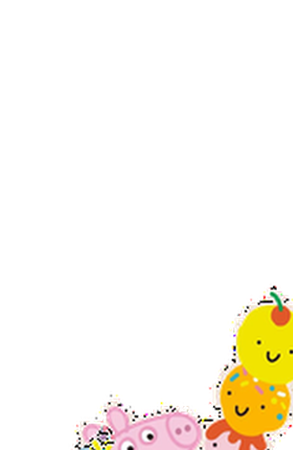
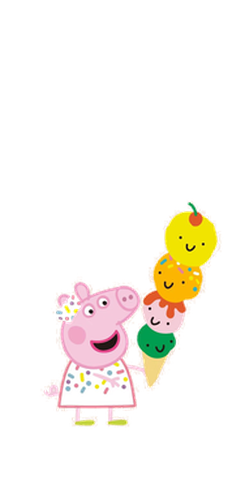
peppa_9 back to floating, restored from git with light crop, 480px height at top 20%

Changed region(s): [[0.1714, 0.4044, 1.0, 1.0]]

diff --git a/index.html b/index.html
@@ -454,6 +454,10 @@ footer a:hover { text-decoration: underline; }
 .peppa-wrap.peppa-7 {
   top: 30%;
 }
+.peppa-wrap.peppa-9 {
+  top: 20%;
+  height: 480px;
+}
 .peppa-wrap.peppa-6 {
   top: 5%;
   height: 350px;
@@ -568,13 +572,14 @@ footer a:hover { text-decoration: underline; }
 
 <!-- ═══════════════ FOOD ═══════════════ -->
 <section class="section bg-cream reveal">
+  <div class="peppa-wrap peppa-9"><img src="pic/peppa_9.png" alt="Peppa Pig" class="peppa-char"></div>
   <div class="section-inner">
     <div class="section-eyebrow">🍽 Food & Drinks</div>
     <h2 class="section-title">What's Included</h2>
     <p class="section-sub">No need to bring food — we've got it all covered!</p>
     <div class="detail-card">
-      <div class="detail-row" style="border-bottom:none; align-items:center;">
-        <img src="pic/peppa_9.png" alt="Peppa Pig" class="inline-peppa">
+      <div class="detail-row" style="border-bottom:none">
+        <div class="d-icon">🎁</div>
         <div>
           <div class="d-label">Included with the party</div>
           <div class="pill-grid">
